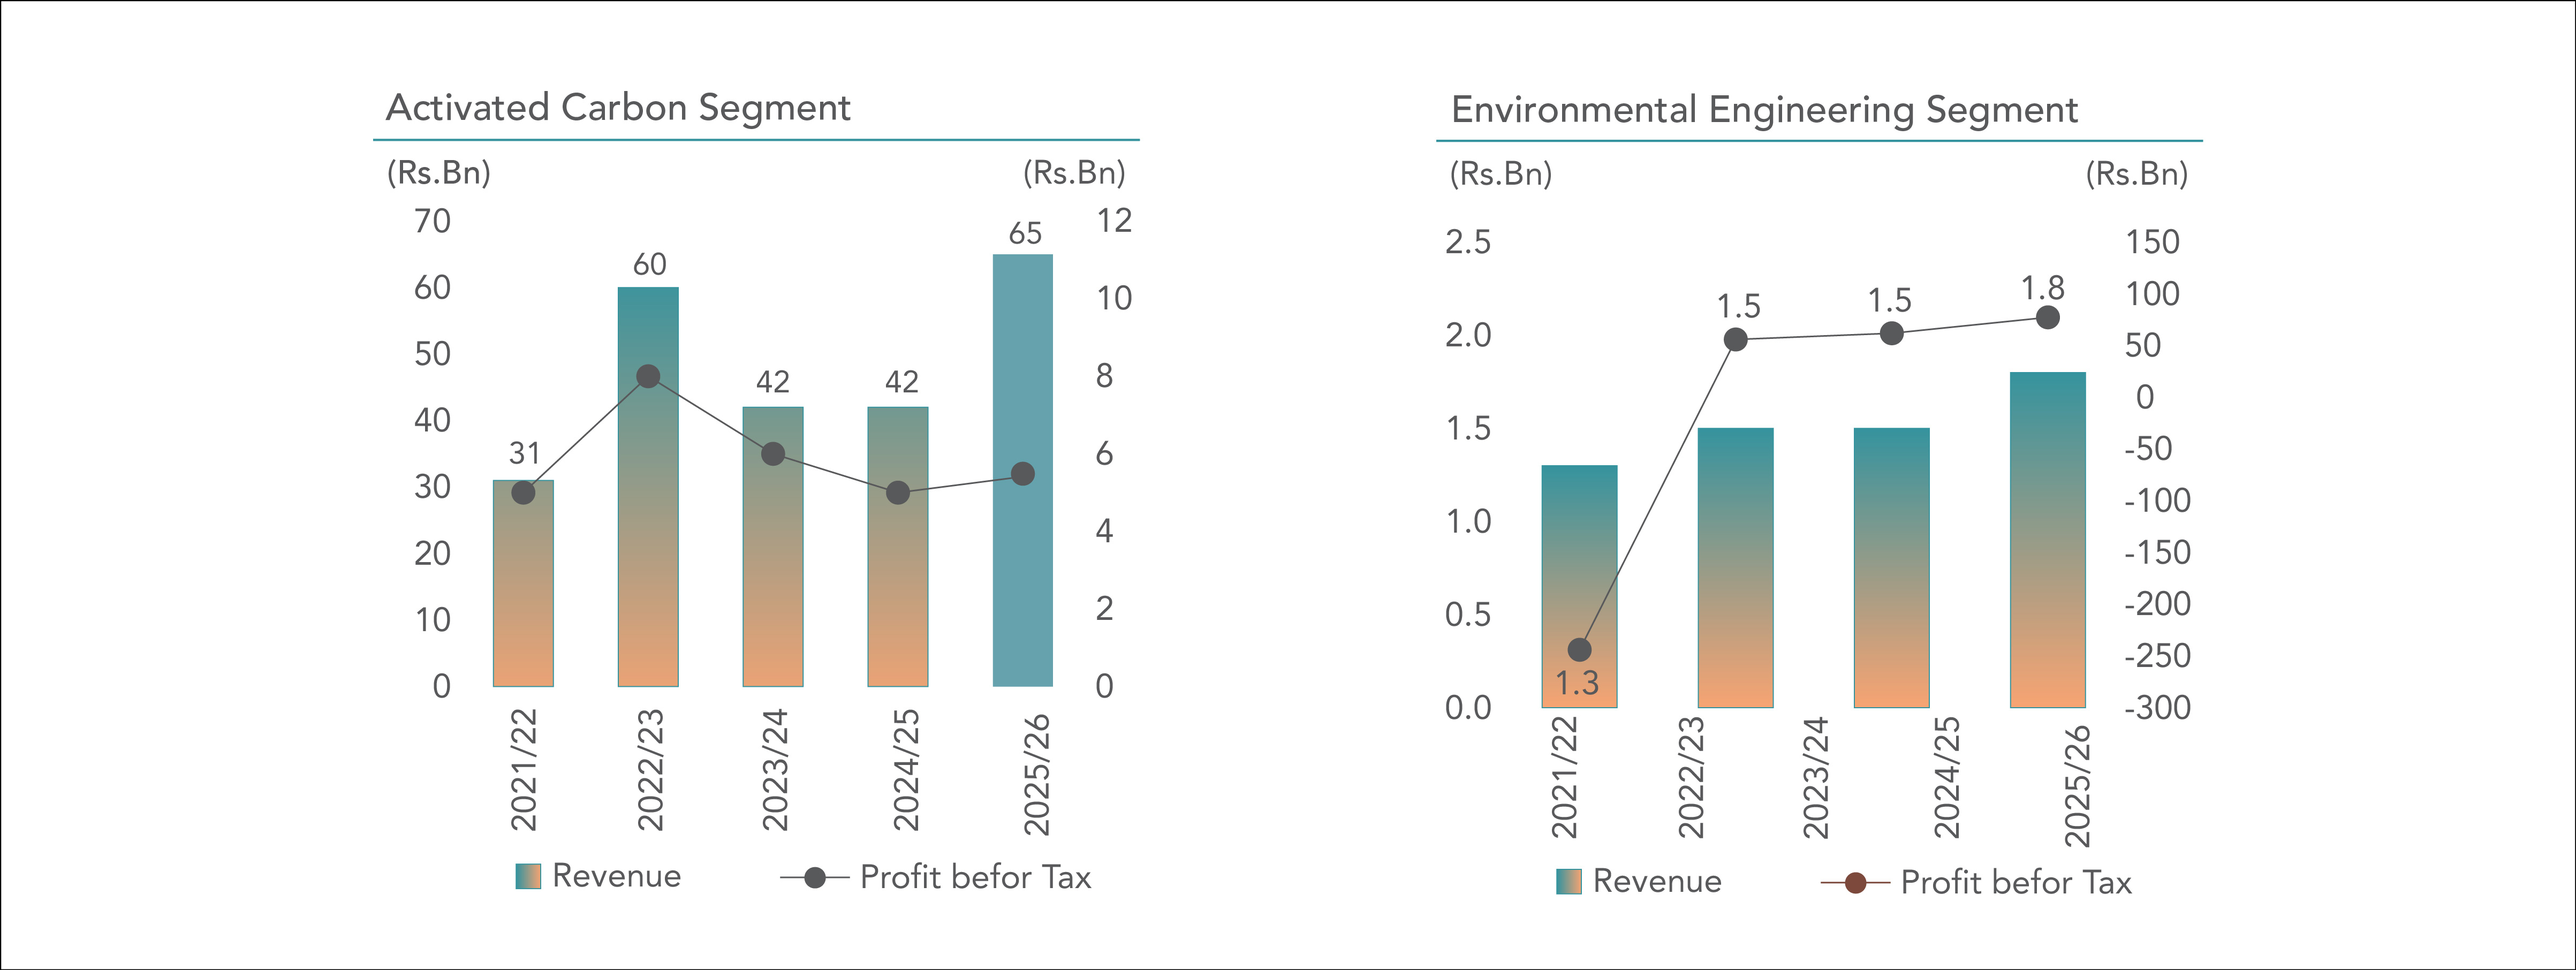
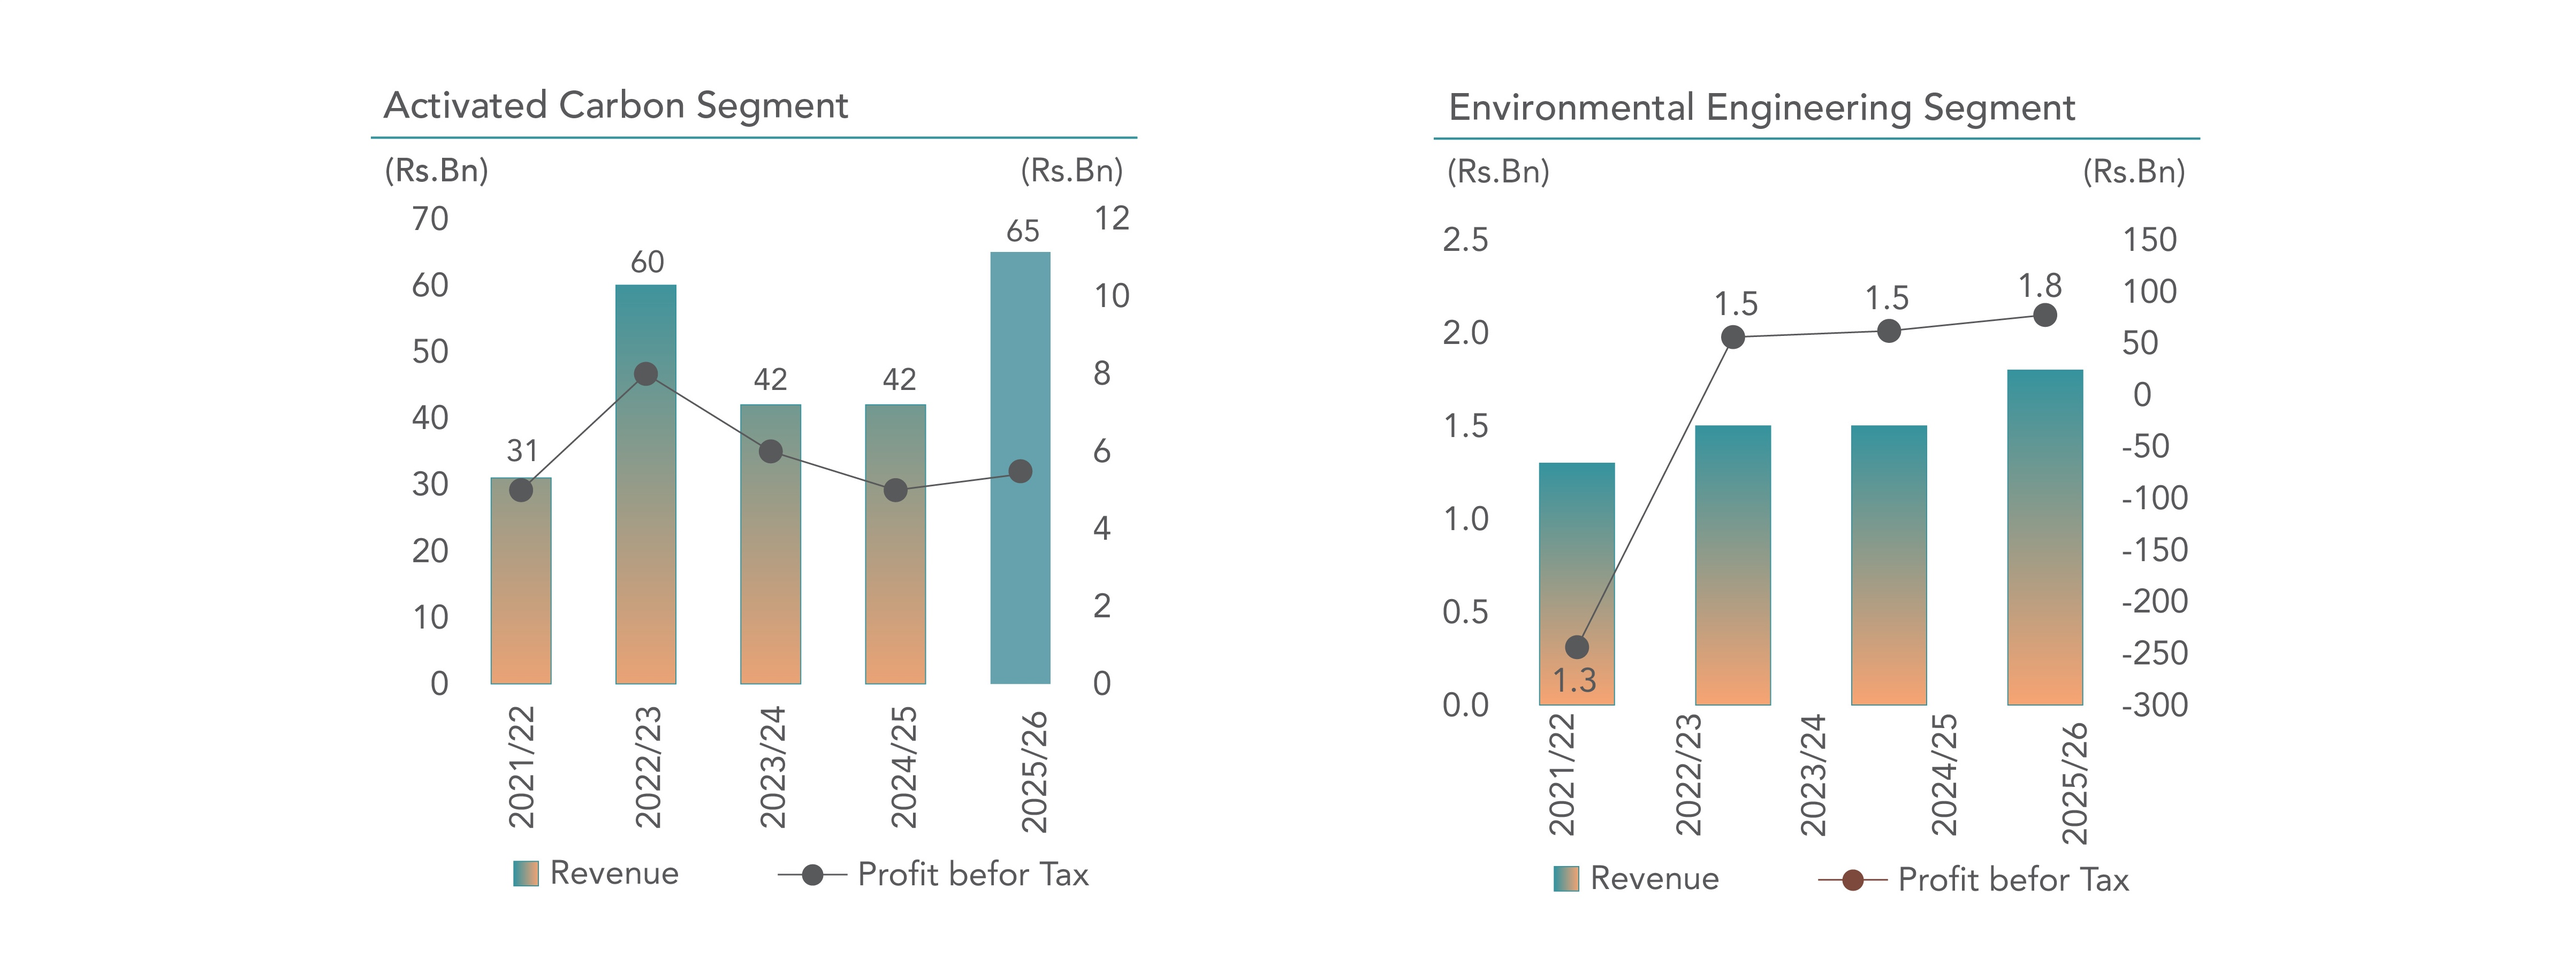
image border issue fixed

diff --git a/src/components/FinancialReview/ValueCreation/valueCreationData.ts b/src/components/FinancialReview/ValueCreation/valueCreationData.ts
@@ -103,7 +103,7 @@ export const STAGES: Record<StageId, Stage> = {
       ],
     },
     description:
-      "Our value creation model outlines the distinct operational pathways driving our business forward: Activated Carbon Solutions and Environmental Engineering Solutions. Together, these two strategic process tracks turn technical expertise into scalable, sustainable impact for our customers worldwide",
+      "Our value creation model outlines the distinct operational pathways driving our business forward: Activated Carbon Solutions and Environmental Engineering Solutions. Together, these two strategic processes turn technical expertise into scalable, sustainable impact for our customers worldwide.",
   },
   outputs: {
     id: "outputs",
@@ -352,6 +352,25 @@ export const CAPITALS: Capital[] = [
       { label: "PPE", value: "Rs. 16.17 Bn" },
       { label: "Capex", value: "Rs. 4.15 Bn" },
     ],
+  },
+  {
+    title: "ESG mindset",
+    description:
+      "Embed environmental stewardship, social responsibility and strong governance into our strategy and operations, guiding how we create sustainable value for our stakeholders.",
+    background: "#e3eefb",
+    iconBackground: "#4a86c8",
+    icon: {
+      viewBox: "0 0 24 24",
+      nodes: [
+        {
+          tag: "path",
+          d: "M12 2.8l6.8 2.7v5.5c0 4.2-2.7 8-6.8 9.6-4.1-1.6-6.8-5.4-6.8-9.6V5.5L12 2.8z",
+        },
+        { tag: "path", d: "M8.8 14.2c0-2.6 2.1-4.7 4.7-4.7.4 3.2-1.9 6-4.7 4.7z" },
+        { tag: "path", d: "M8.8 14.2c1.4-.7 2.5-1.9 3.1-3.3" },
+      ],
+    },
+    stats: [],
   },
 ];
 

diff --git a/AGENTS.md b/AGENTS.md
@@ -1,7 +1,11 @@
 <!-- BEGIN:nextjs-agent-rules -->
+
 # This is NOT the Next.js you know
 
-This version has breaking changes — APIs, conventions, and file structure may all differ from your training data. Read the relevant guide in `node_modules/next/dist/docs/` before writing any code. Heed deprecation notices.
+This version has breaking changes — APIs, conventions, and file structure may all differ from your training data. Read the relevant guide in `node_modules/next/dist/docs/` (resolved from this file's directory; in monorepos the `next` package may not be visible from the repo root) before writing any code. Heed deprecation notices.
+
+This block is written and re-added by `next dev` — verify at `node_modules/next/dist/server/lib/generate-agent-files.js`. Removing it from a diff only re-creates the uncommitted change; committing it with your work keeps the tree clean.
+
 <!-- END:nextjs-agent-rules -->
 
 <!-- ========================================================================== -->
